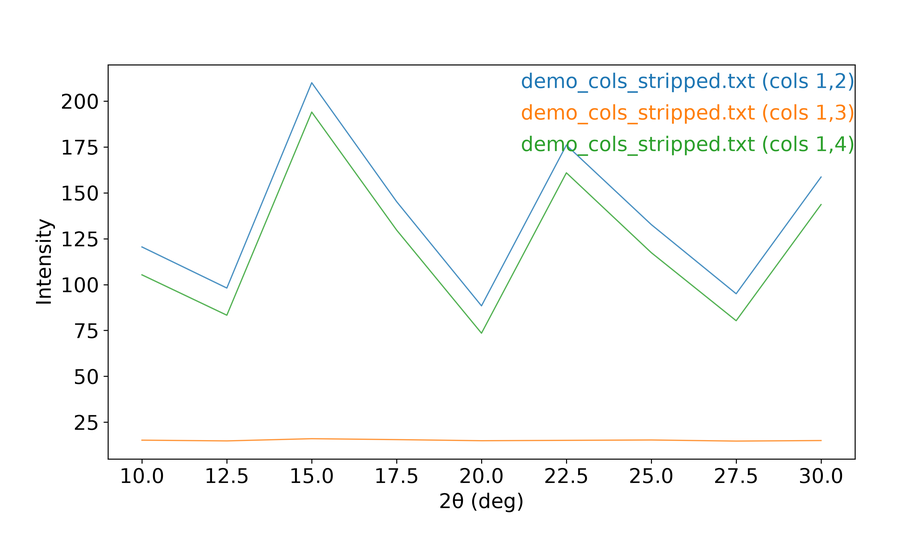
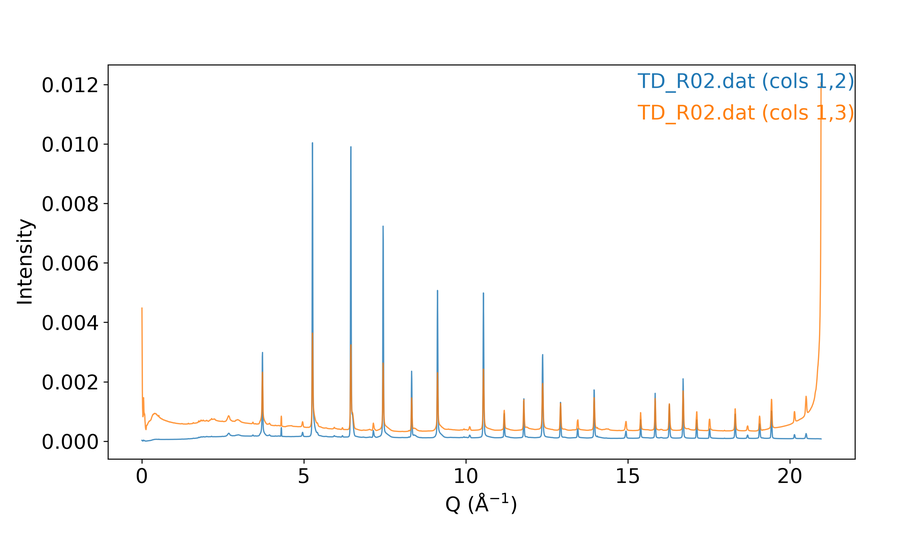
Use TD_R02 for --readcol examples in the manual.
Replace the synthetic four-column demo with the real three-column synchrotron file and regenerate figures.

diff --git a/scripts/capture_manual_figures.py b/scripts/capture_manual_figures.py
@@ -215,40 +215,33 @@ def main() -> int:
         f"Normalized overlay (`--norm --wl {WL_SYNC}`)",
     )
 
-    _run([str(demo_data / "demo_cols.txt"), "--strip-header", "2"])
-    stripped = demo_data / "stripped" / "demo_cols.txt"
-    committed = demo_data / "demo_cols_stripped.txt"
-    if stripped.is_file():
-        shutil.copy2(stripped, committed)
-    readcol_src = str(committed if committed.is_file() else stripped)
-
     add(
         "manual-xy-readcol.png",
         [
-            readcol_src,
+            str(xrd / "TD_R02.dat"),
             "--readcol",
             "1",
-            "4",
+            "3",
             "--xaxis",
-            "2theta",
+            "q",
             "--out",
             str(out_dir / "manual-xy-readcol.png"),
         ],
-        "`demo_cols_stripped.txt --readcol 1 4`",
+        "`TD_R02.dat --readcol 1 3 --xaxis q`",
     )
     add(
         "manual-xy-readcol-multi.png",
         [
-            readcol_src,
+            str(xrd / "TD_R02.dat"),
             "--readcol",
             "1",
-            "2-4",
+            "2-3",
             "--xaxis",
-            "2theta",
+            "q",
             "--out",
             str(out_dir / "manual-xy-readcol-multi.png"),
         ],
-        "`--readcol 1 2-4` multi-y curves",
+        "`TD_R02.dat --readcol 1 2-3 --xaxis q`",
     )
     add(
         "manual-xy-stack.png",

diff --git a/docs/11-utilities.md b/docs/11-utilities.md
@@ -112,41 +112,43 @@ batplot /path/to/folder --strip-header 2 --ext .xy,.dat,.txt
 
 ## Choose columns (`--readcol`)
 
-Default 1D plotting uses columns **1** and **2**. After `--showcol` on `demo_cols.txt`, you know `[4]` is `I_norm`. Plot angle vs normalized intensity from the stripped copy:
+Default 1D plotting uses columns **1** and **2**. For a real three-column file such as `TD_R02.dat`, pick another Y with `--readcol` (see also [1D mode](05-examples-1d-mode.md#using-readcol-to-specify-columns)):
 
 ```text
-batplot demo_cols_stripped.txt --readcol 1 4 --xaxis 2theta --i
+batplot TD_R02.dat --readcol 1 3 --xaxis q --i
 ```
 
-**X = column 1 (`angle_deg`), Y = column 4 (`I_norm`)**
+**X = column 1, Y = column 3**
 
 ![](images/manual/manual-xy-readcol.png)
 
-<p class="figure-caption"><strong>Figure: --readcol 1 4</strong> on the shared demo file (same image as in [1D mode](05-examples-1d-mode.md#using-readcol-to-specify-columns))</p>
+<p class="figure-caption"><strong>Figure: --readcol 1 3</strong> (TD_R02.dat)</p>
 
-Plot sample and normalized intensity together (shared X):
+Plot both Y columns against the same X:
 
 ```text
-batplot demo_cols_stripped.txt --readcol 1 2 1 4 --xaxis 2theta --i
+batplot TD_R02.dat --readcol 1 2 1 3 --xaxis q --i
 ```
 
-**two curves: `I_sample` and `I_norm` vs `angle_deg`**
-
-Range shorthand and per-file overrides (same file layout):
+**two curves: columns 2 and 3 vs column 1**
 
 ```text
-batplot demo_cols_stripped.txt --readcol 1 2-4 --xaxis 2theta --i
+batplot TD_R02.dat --readcol 1 2-3 --xaxis q --i
 ```
 
-**three curves: columns 2, 3, and 4 vs column 1**
+**same thing with range shorthand**
+
+![](images/manual/manual-xy-readcol-multi.png)
+
+<p class="figure-caption"><strong>Figure: --readcol 1 2-3</strong> (TD_R02.dat)</p>
 
 ```text
-batplot demo_a.txt --readcol 1 2 demo_b.txt --readcol 1 4 --i
+batplot TD_R02.dat --readcol 1 2 TD_R03.dat --readcol 1 3 --xaxis q --i
 ```
 
 **each file can pick its own columns**
 
-More `--readcol` patterns: [1D / XY — Using --readcol](05-examples-1d-mode.md#using-readcol-to-specify-columns).
+After `--showcol` on the shared `demo_cols.txt` layout above, you can likewise plot headered columns (e.g. `--readcol 1 4` for `angle_deg` vs `I_norm`).
 
 ## Convert XRD files (`--convert`)
 

diff --git a/docs/05-examples-1d-mode.md b/docs/05-examples-1d-mode.md
@@ -148,39 +148,39 @@ batplot TD_S0062-64.xy Li2FeSeO.cif:1.54 --xaxis 2theta --wl 1.54 --i
 
 ## Using --readcol to Specify Columns {: #using-readcol-to-specify-columns }
 
-These examples use the same multi-column layout as [Utilities — shared demo file](11-utilities.md#shared-demo-file) (`demo_cols.txt` / stripped copy: `angle_deg`, `I_sample`, `I_blank`, `I_norm`).
+By default *batplot* plots columns **1** and **2**. Use `--readcol` when you need other columns. Synchrotron file `TD_R02.dat` has **three** columns (x, y₁, y₂):
 
 ```text
-batplot demo_cols_stripped.txt --readcol 1 4 --xaxis 2theta --i
+batplot TD_R02.dat --readcol 1 3 --xaxis q --i
 ```
 
-**plots column 1 (`angle_deg`) and column 4 (`I_norm`) as x and y**
+**plots column 1 as x and column 3 as y**
 
 ![](images/manual/manual-xy-readcol.png)
 
-<p class="figure-caption"><strong>Figure: --readcol 1 4</strong> (angle vs I_norm)</p>
+<p class="figure-caption"><strong>Figure: --readcol 1 3</strong> (TD_R02.dat)</p>
 
 ```text
-batplot demo_cols_stripped.txt --readcol 1 2 1 3 1 4 --xaxis 2theta --i
+batplot TD_R02.dat --readcol 1 2 1 3 --xaxis q --i
 ```
 
-**plots 3 curves with column 1 as x and columns 2, 3, 4 as y**
+**plots two curves: column 1 vs 2, and column 1 vs 3**
 
 ```text
-batplot demo_cols_stripped.txt --readcol 1 2-4 --xaxis 2theta --i
+batplot TD_R02.dat --readcol 1 2-3 --xaxis q --i
 ```
 
-**plots 3 curves with column 1 as x and columns 2–4 as y (range shorthand)**
+**same as above using range shorthand for the y columns**
 
 ![](images/manual/manual-xy-readcol-multi.png)
 
-<p class="figure-caption"><strong>Figure: --readcol 1 2-4</strong> (three y columns)</p>
+<p class="figure-caption"><strong>Figure: --readcol 1 2-3</strong> (TD_R02.dat, two y columns)</p>
 
 ```text
-batplot demo_a.txt --readcol 1 2 demo_b.txt --readcol 1 4 --i
+batplot TD_R02.dat --readcol 1 2 TD_R03.dat --readcol 1 3 --xaxis q --i
 ```
 
-**plots 2 curves with specified columns for each file**
+**per-file column selection when overlaying multiple files**
 
 ## Stacking Multiple Files Using --stack
 

diff --git a/docs/images/manual/MANIFEST.md b/docs/images/manual/MANIFEST.md
@@ -29,8 +29,8 @@ PNG max width: 900px (CSS also limits display size)
 | `manual-xy-q-suffix.png` | OK | TD_S0062-64.xy:1.54 |
 | `manual-xy-q.png` | OK | Cu XRD → Q TD_S0062-64 --wl 1.54 |
 | `manual-xy-qye.png` | OK | R02.qye |
-| `manual-xy-readcol-multi.png` | OK | readcol 1 2-4 |
-| `manual-xy-readcol.png` | OK | readcol 1 4 |
+| `manual-xy-readcol-multi.png` | OK | TD_R02 --readcol 1 2-3 |
+| `manual-xy-readcol.png` | OK | TD_R02 --readcol 1 3 |
 | `manual-xy-reproj.png` | OK | TD_R02.dat:0.259:1.54 |
 | `manual-xy-ry.png` | OK | dual y --ry |
 | `manual-xy-stack.png` | OK | TD_R stack --wl 0.259 |
